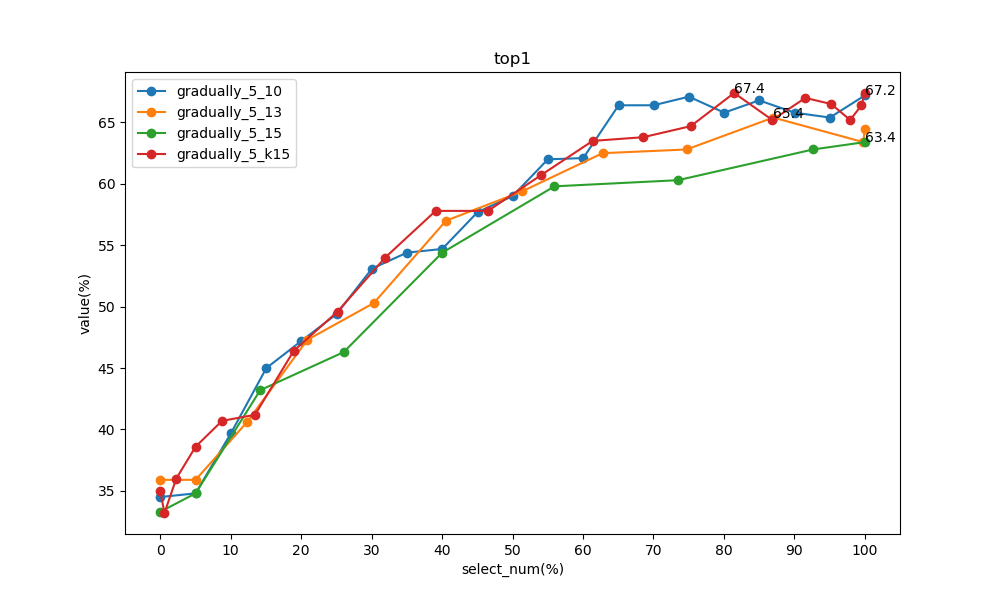
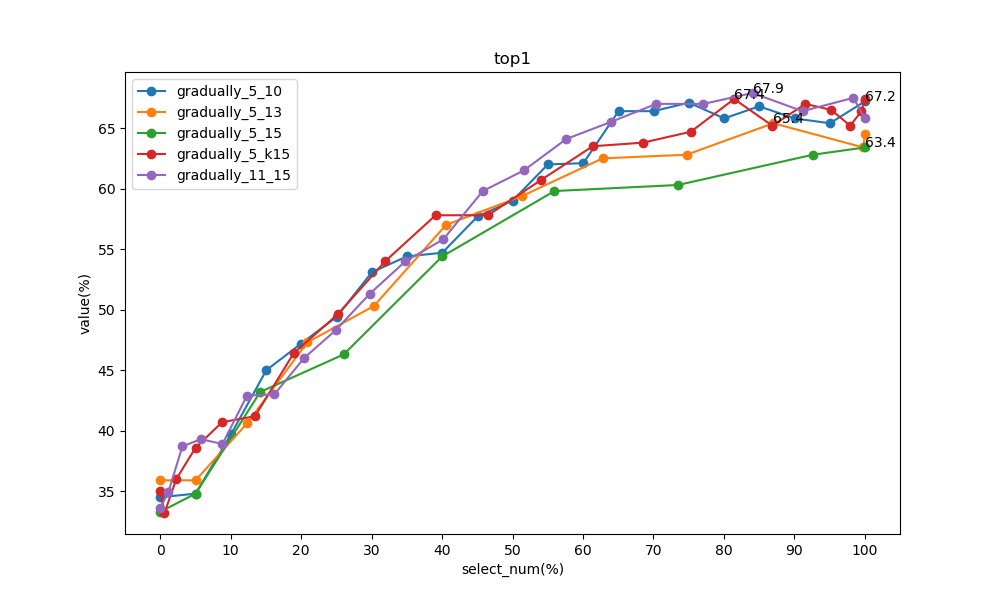
0929

diff --git a/data.py b/data.py
@@ -19,7 +19,11 @@ gradually_5_15={
     "top10" :     [56.0, 59.8, 63.7, 68.9, 76.1, 80.1, 82.5, 82.2,82.8],
     "top20" :     [63.4, 65.7, 69.7, 74.8, 80.8, 85.6, 87.0, 85.9,86.8],
     "label_pre" : [40.8, 43.5, 48.3, 51.3, 56.6, 59.6, 61.6, 62.3,62.7],
-    "select_pre" : [94.59, 93.84, 89.95, 86.10, 81.2, 74.48, 65.15, 62.32,62.65]}
+    "select_pre" : [94.59, 93.84, 89.95, 86.10, 81.2, 74.48, 65.15, 62.32,62.65],
+    "train_pre": [100.0, 99.36, 97.59, 94.96, 91.31, 86.09, 78.72, 74.98, 74.54],
+    "select_percent":[0.0, 5.02, 14.19, 26.04, 40.03, 55.96, 73.49, 92.64, 100.0],
+    "select_num": [0, 75, 212, 389, 598, 836, 1098, 1384, 1494]
+}
 
 gradually_5_13={
     "title":"gradually_5_13",
@@ -30,7 +34,11 @@ gradually_5_13={
     "top10" :     [59.4,60.4,63.0,69.7,72.8,76.5,78.5,81.8,81.5,83.6,83.5,82.3],
     "top20" :     [65.0,66.0,70.4,74.6,77.2,81.6,83.0,84.9,85.8,86.6,86.9,86.5],
     "label_pre" : [42.3,42.7,46.9,53.6,56.3,58.2,61.6,63.3,64.1,64.5,64.7,65.3],
-    "select_pre" : [95.59,93.99,95.18,92.04,90.08,87.74,83.46,77.58,71.36,64.56,64.73,65.26]}
+    "select_pre" : [95.59,93.99,95.18,92.04,90.08,87.74,83.46,77.58,71.36,64.56,64.73,65.26],
+    "train_pre": [100.0, 99.36, 98.98, 97.53, 96.1, 94.27, 91.29, 87.13, 82.4, 76.97, 76.01, 76.32],
+    "select_percent":[0.0, 5.02, 12.32, 20.88, 30.32, 40.56, 51.41, 62.78, 74.7, 87.01, 99.8, 100.0],
+    "select_num":[0, 75, 184, 312, 453, 606, 768, 938, 1116, 1300, 1491, 1494]
+}
 
 gradually_5_10={
     "title":"gradually_5_10",
@@ -42,7 +50,11 @@ gradually_5_10={
     "top10" :      [56.1,60.7,63.1,68.2,69.4,69.9,75.5,75.9,76.8,78.1,80.8,80.6,82.8,83.5,83.5,84.5,82.8,84.6,84.3,84.6,83.8],
     "top20" :      [63.0,66.5,68.8,73.4,76.1,75.5,81.3,81.1,80.5,82.9,83.5,84.0,85.3,87.3,87.7,87.6,87.2,87.9,88.7,87.5,88.2],
     "label_pre" :  [41.8,42.8,45.3,50.1,51.8,54.8,56.0,57.8,57.8,60.0,62.7,62.6,64.7,65.3,66.7,68.1,67.5,67.8,68.2,68.3,68.5],
-    "select_pre" : [91.89,91.95,92.86,94.97,96.25,95.09,94.64,93.47,91.34,90.23,88.43,87.50,86.61,84.69,82.05,80.00,77.15,74.18,71.32,68.27,68.54]}
+    "select_pre" : [91.89,91.95,92.86,94.97,96.25,95.09,94.64,93.47,91.34,90.23,88.43,87.50,86.61,84.69,82.05,80.00,77.15,74.18,71.32,68.27,68.54],
+    "train_pre": [100.0, 99.1, 98.71, 98.71, 98.8, 98.23, 97.83, 97.14, 96.0, 95.2, 94.0, 93.24, 92.43, 91.1, 89.24, 87.66, 85.56, 83.37, 81.14, 78.75, 78.55],
+    "select_percent":[0.0, 5.02, 10.04, 15.06, 20.01, 25.03, 30.05, 35.01, 40.03, 45.05, 50.0, 55.02, 60.04, 65.06, 70.01, 75.03, 80.05, 85.01, 90.03, 95.05, 100.0],
+    "select_num":[0, 75, 150, 225, 299, 374, 449, 523, 598, 673, 747, 822, 897, 972, 1046, 1121, 1196, 1270, 1345, 1420, 1494]
+}
 
 gradually_5_k15={
     "title":"gradually_5_k15",
@@ -53,7 +65,60 @@ gradually_5_k15={
     "top10" :     [57.3,58.1,56.7,61.0,63.2,64.2,69.1,70.4,76.2,76.6,79.3,79.2,80.6,81.8,84.2,85.5,85.6,85.8,84.8,83.5,85.6,85.6],
     "top20" :     [62.7,64.7,62.3,67.0,68.4,71.7,74.4,76.1,81.2,82.2,84.0,83.9,84.9,85.9,87.2,88.5,88.6,89.3,88.3,87.0,89.2,88.3],
     "label_pre" : [39.4,41.2,41.9,43.4,47.3,49.7,50.9,54.8,58.6,59.8,60.8,61.9,64.5,66.1,66.8,66.8,67.5,68.1,67.8,68.3,68.3,68.3],
-    "select_pre" : [100.0,93.94,95.95,96.15,95.5,95.04,92.53,91.81,90.91,89.77,88.09,85.70,83.87,80.96,77.96,75.17,72.71,70.53,69.15,68.57,68.39,68.34]}
+    "select_pre" : [100.0,93.94,95.95,96.15,95.5,95.04,92.53,91.81,90.91,89.77,88.09,85.70,83.87,80.96,77.96,75.17,72.71,70.53,69.15,68.57,68.39,68.34],
+    "train_pre": [100.0, 99.86, 99.73, 99.61, 99.28, 98.89, 97.77, 97.12, 96.27, 95.33, 94.06, 92.31, 90.86, 88.7, 86.43, 84.21, 82.25, 80.48, 79.34, 78.75, 78.48, 78.42],
+    "select_percent":[0.0, 0.6, 2.28, 5.02, 8.77, 13.45, 18.94, 25.17, 31.93, 39.09, 46.52, 54.02, 61.38, 68.54, 75.3, 81.46, 86.88, 91.57, 95.25, 97.93, 99.53, 100.0],
+    "select_num": [0, 9, 34, 75, 131, 201, 283, 376, 477, 584, 695, 807, 917, 1024, 1125, 1217, 1298, 1368, 1423, 1463, 1487, 1494]
+}
+
+
+gradually_11_15={  #ef 1.1  q 1.5
+    "title":"gradually_11_15",
+    "length": 22,
+    "mAP" :       [28.8,29.7,33.2,34.7,33.8,36.3,37.6,39.7,42.5,44.8,46.9,48.6,50.9,52.6,53.9,55.9,57.6,57.5,58.8,57.3,58.0,56.6],
+    "top1" :      [33.6,34.9,38.7,39.3,38.9,42.9,43.0,46.0,48.3,51.3,54.0,55.8,59.8,61.5,64.1,65.5,67.0,67.0,67.9,66.4,67.5,65.8],
+    "top5" :      [48.7,50.4,55.3,56.0,54.8,58.5,60.4,63.0,64.1,68.2,75.6,72.2,73.6,76.4,77.9,79.9,80.1,79.9,81.2,79.8,79.6,80.1],
+    "top10" :     [54.7,56.4,61.3,62.1,61.7,64.7,67.1,67.2,71.8,73.2,75.6,77.6,78.9,80.3,81.9,83.2,84.3,83.5,85.9,84.3,83.9,84.2],
+    "top20" :     [61.7,64.2,67.9,68.1,66.4,68.9,73.4,72.6,77.4,78.5,81.1,83.2,82.6,85.2,85.0,85.9,87.6,87.7,89.2,86.5,87.6,87.5],
+    "label_pre" : [40.8,40.2,45.6,46.7,43.8,48.5,49.9,50.8,52.6,55.2,57.8,59.4,61.4,63.3,64.1,66.2,65.8,67.1,67.8,68.4,68.4,68.5],
+    "select_pre" : [94.12,95.74,97.67,96.21,92.39,91.74,92.79,94.09,92.34,92.69,90.83,90.79,89.88,87.34,85.24,83.56,80.21,76.67,73.2,69.32,68.41,68.47],
+    "train_pre":[100.0, 99.86, 99.73, 99.49, 98.68, 98.19, 98.09, 98.11, 97.3, 97.12, 96.07, 95.7, 94.95, 93.35, 91.81, 90.46, 88.08, 85.49, 82.79, 79.75, 78.59, 78.51],
+    "select_percent":[0.0, 1.14, 3.15, 5.76, 8.84, 12.32, 16.2, 20.41, 24.9, 29.72, 34.81, 40.16, 45.78, 51.61, 57.63, 63.92, 70.41, 77.11, 84.07, 91.16, 98.39, 100.0],
+    "select_num":[0, 17, 47, 86, 132, 184, 242, 305, 372, 444, 520, 600, 684, 771, 861, 955, 1052, 1152, 1256, 1362, 1470, 1494]
+
+
+}
+
+gradually_55_25={  #ef 0.055  q 2.5
+    "title":"gradually_55_25",
+    "length": 22,
+    "mAP" :       [29.0,27.4,31.2,30.1,29.4,28.9,33.2,32.3,35.0,36.6,39.1,43.5,44.0,46.3,47.6,48.7,51.0,54.7,55.7,56.2,55.8,56.4],
+    "top1" :      [34.8,32.3,36.2,35.6,34.9,34.0,37.5,38.3,40.3,42.2,44.3,50.0,49.9,53.7,56.3,56.8,61.5,63.4,64.4,65.8,65.5,65.5],
+    "top5" :      [51.0,48.0,53.7,52.0,50.4,48.1,56.8,53.8,56.8,59.8,63.0,67.5,69.7,69.4,71.8,75.1,74.4,77.9,78.5,79.1,78.3,78.5],
+    "top10" :     [57.4,54.6,59.7,58.7,56.8,54.6,62.8,61.5,61.7,64.5,68.2,73.4,74.5,74.1,78.1,79.6,78.6,81.9,83.0,83.0,82.5,82.9],
+    "top20" :     [65.8,60.5,66.1,65.2,64.2,60.7,67.1,67.1,67.7,70.9,74.4,77.4,78.3,79.8,80.9,83.6,83.3,86.8,87.7,86.0,87.0,86.0],
+    "label_pre" : [40.9,38.0,43.6,40.3,39.9,40.2,45.8,43.8,46.2,48.5,51.1,54.6,54.1,56.7,58.2,61.3,61.9,65.7,65.5,66.0,66.0,65.9],
+    "select_pre" :[100.0,100.0,100.0,96.30,95.65,98.63,97.2,95.3,95.00,94.23,95.15,94.63,93.21,92.21,89.82,86.34,83.06,80.0,73.24,66.87,66.0,65.93],
+    "train_pre" :[100.0, 100.0, 100.0, 99.86, 99.73, 99.87, 99.61, 99.26, 99.06, 98.67, 98.65, 98.26, 97.48, 96.67, 95.25, 93.09, 90.74, 88.35, 83.46, 78.5, 76.98, 76.78],
+    "select_percent":[0.0, 0.07, 0.33, 0.87, 1.81, 3.08, 4.89, 7.16, 9.97, 13.39, 17.4, 22.09, 27.44, 33.53, 40.36, 47.99, 56.36, 65.6, 75.64, 86.55, 98.39, 100.0],
+    "select_num":[0, 1, 5, 13, 27, 46, 73, 107, 149, 200, 260, 330, 410, 501, 603, 717, 842, 980, 1130, 1293, 1470, 1494]
+}
+
+
+gradually_223_05={  #ef 22.3  q 0.5
+    "title":"gradually_223_05",
+    "length": 22,
+    "mAP" :       [29.9,38.3,43.6,45.7,48.1,50.3,51.6,53.9],
+    "top1" :      [35.0,43.4,49.6,53.0,56.1,58.3,61.0,64.1],
+    "top5" :      [48.9,61.1,68.1,69.8,72.6,74.2,77.1,77.2],
+    "top10" :     [56.4,67.9,72.4,75.6,77.8,79.8,79.9,81.1],
+    "top20" :     [64.4,72.8,76.9,80.9,82.2,83.5,84.0,85.6],
+    "label_pre" : [41.3,50.5,53.9,56.6,59.6,61.5,63.2,64.0],
+    "select_pre" :[81.14,86.86,86.68,86.81,86.98,87.03,86.73,85.58],
+    "train_pre" :[],
+    "select_percent":[],
+    "select_num":[]
+}
 
 
 import  numpy as np
@@ -67,8 +132,9 @@ def percent_gradually_5_k15():
     x = np.linspace(1,gradually_5_k15["length"],gradually_5_k15["length"])
     def fun(x):
         num =  min(math.ceil(-(Nu/2) * np.cos((k/100) * (x-1))+(Nu/2)),Nu)
-        return num*100/Nu
+        return round(num)
     xx = list(map(fun,x))
+    print("percent_gradually_5_k15",xx)
     return xx
 
 def percent_gradually_5_10():
@@ -78,8 +144,9 @@ def percent_gradually_5_10():
     x = np.linspace(1,gradually_5_10["length"],gradually_5_10["length"])
     def fun(x):
         num =  min(math.ceil(Nu * math.pow(x-1,q)*(ef/100)),Nu)
-        return num*100/Nu
+        return round(num)
     xx = list(map(fun,x))
+    print("percent_gradually_5_10",xx)
     return xx
 
 def percent_gradually_5_13():
@@ -89,8 +156,9 @@ def percent_gradually_5_13():
     x = np.linspace(1,gradually_5_13["length"],gradually_5_13["length"])
     def fun(x):
         num =  min(math.ceil(Nu * math.pow(x-1,q)*(ef/100)),Nu)
-        return num*100/Nu
+        return round(num)
     xx = list(map(fun,x))
+    print("percent_gradually_5_13",xx)
     return xx
 
 def percent_gradually_5_15():
@@ -100,9 +168,50 @@ def percent_gradually_5_15():
     x = np.linspace(1,gradually_5_15["length"],gradually_5_15["length"])
     def fun(x):
         num =  min(math.ceil(Nu * math.pow(x-1,q)*(ef/100)),Nu)
-        return num*100/Nu
+        return round(num)
     xx = list(map(fun,x))
+    print("percent_gradually_5_15",xx)
     return xx
+
+
+def percent_gradually_11_15():
+    Nu = 1494.0
+    q = 1.5
+    ef = 1.1
+    x = np.linspace(1,gradually_11_15["length"],gradually_11_15["length"])
+    def fun(x):
+        num =  min(math.ceil(Nu * math.pow(x-1,q)*(ef/100)),Nu)
+        return round(num)
+    xx = list(map(fun,x))
+    print("percent_gradually_11_15",xx)
+    return xx
+
+def percent_gradually_55_25():
+    Nu = 1494.0
+    q = 2.5
+    ef = 0.055
+    x = np.linspace(1,gradually_11_15["length"],gradually_11_15["length"])
+    def fun(x):
+        num =  min(math.ceil(Nu * math.pow(x-1,q)*(ef/100)),Nu)
+        return round(num)
+    xx = list(map(fun,x))
+    print("percent_gradually_55_25",xx)
+    return xx
+
+
+def get_train_pre(train_name):
+    Ln=702
+    select_pre = train_name["select_pre"]
+    select_num = train_name["select_num"]
+    def fun(pre,num):
+        return round((math.floor(pre*num/100)+Ln)*100/(num+Ln),2)
+    train_pre = list(map(fun,select_pre,select_num))
+    print(train_name["title"],train_pre)
+
+def get_train_pre_all():
+    train_list = [gradually_5_10, gradually_5_13, gradually_5_15, gradually_5_k15, gradually_11_15,gradually_55_25]
+    for train_name in train_list:
+        get_train_pre(train_name)
 
 
 
@@ -111,5 +220,5 @@ def percent_gradually_5_15():
 
 if __name__=="__main__":
     # print(get_len(gradually_5_15))
-    percent_gradually_5_k15()
-    percent_gradually_5_15()
+    # percent_gradually_5_k15()
+    get_train_pre_all()

diff --git a/file_test.py b/file_test.py
@@ -1,0 +1,22 @@
+
+#!/usr/bin/python
+# -*- coding: utf-8 -*-
+'''
+@AUTHOR:Joselyn Zhao
+@CONTACT:zhaojing17@foxmail.com
+@HOME_PAGE:joselynzhao.top
+@SOFTWERE:PyCharm
+@FILE:file_test.py
+@TIME:2019/9/28 20:55
+@DES:
+'''
+
+
+
+if __name__=="__main__":
+    file = open("output.txt",'a')
+    # file.write("hello")
+    #     # file.write(" zhaojing")
+    k = 3.43217952749
+    print("{:4.1}".format(k))
+    file.close()
